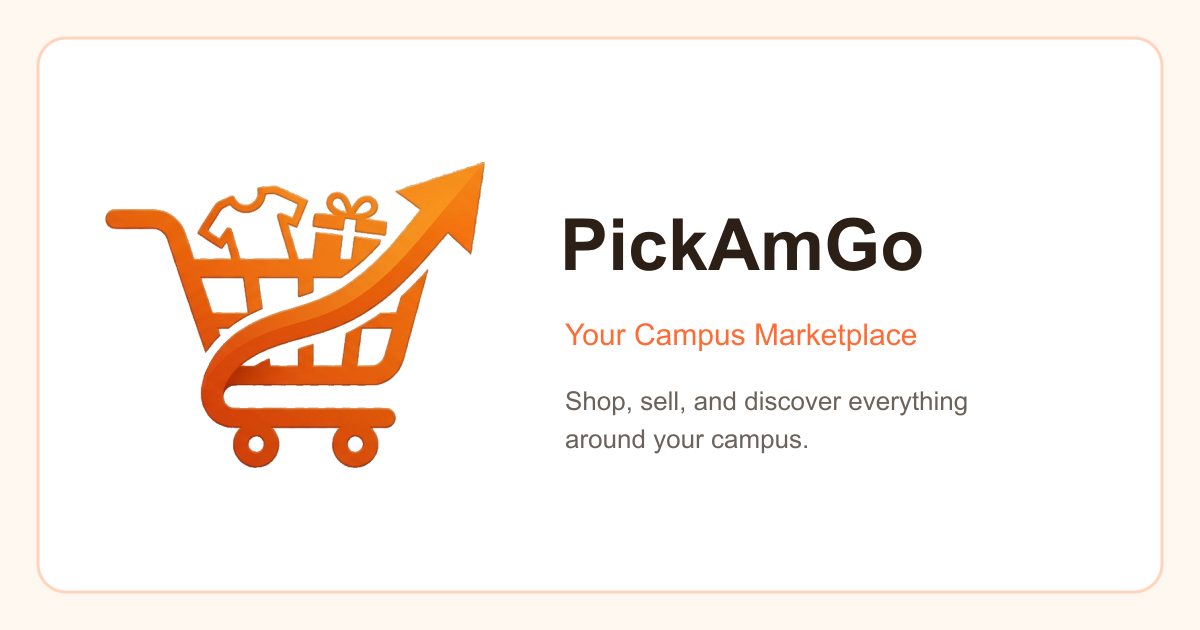
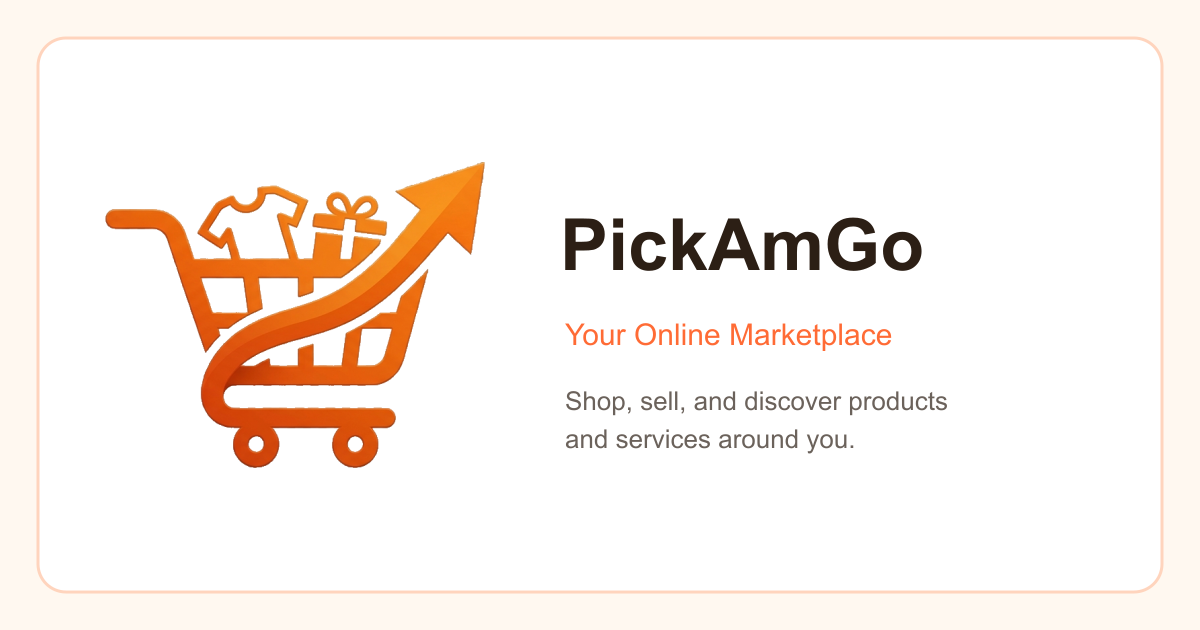
feat: position PickAmGo as a general marketplace

Changed region(s): [[0.5242, 0.5127, 0.7708, 0.573], [0.4933, 0.6635, 0.7092, 0.7238], [0.7092, 0.6032, 0.8017, 0.6635]]

diff --git a/src/lib/shop-themes.ts b/src/lib/shop-themes.ts
@@ -1,5 +1,5 @@
-export type ShopTheme = 'CLEAN' | 'MIDNIGHT' | 'SOFT' | 'LUXURY' | 'FRESH' | 'CAMPUS' | 'STREET' | 'BEAUTY'
-export type ShopLayout = 'CLASSIC' | 'GRID' | 'FEATURED' | 'BEAUTY' | 'CAMPUS'
+export type ShopTheme = 'CLEAN' | 'MIDNIGHT' | 'SOFT' | 'LUXURY' | 'FRESH' | 'QUICK_PICKS' | 'STREET' | 'BEAUTY'
+export type ShopLayout = 'CLASSIC' | 'GRID' | 'FEATURED' | 'BEAUTY' | 'QUICK_PICKS'
 
 export interface ShopCustomization {
   theme: ShopTheme
@@ -25,7 +25,7 @@ export const themePresets: Array<{ id: ShopTheme; name: string; description: str
   { id: 'SOFT', name: 'Soft', description: 'Calm neutrals for an inviting storefront', colors: ['#B76E79', '#FAF5F2', '#47343A'] },
   { id: 'LUXURY', name: 'Luxury', description: 'Editorial spacing and premium contrast', colors: ['#B08D57', '#171614', '#F4E8D0'] },
   { id: 'FRESH', name: 'Fresh', description: 'Energetic color for everyday finds', colors: ['#168AAD', '#EAF7F5', '#12343B'] },
-  { id: 'CAMPUS', name: 'Campus', description: 'Playful, polished and quick to scan', colors: ['#5B5BD6', '#F4F2FF', '#202047'] },
+  { id: 'QUICK_PICKS', name: 'Quick Picks', description: 'Playful, polished and quick to scan', colors: ['#5B5BD6', '#F4F2FF', '#202047'] },
   { id: 'STREET', name: 'Street', description: 'Bold blocks and high-impact product cards', colors: ['#E63946', '#171717', '#F1FAEE'] },
   { id: 'BEAUTY', name: 'Beauty', description: 'Elegant presentation for products and services', colors: ['#C06C84', '#FFF8F5', '#4A2633'] },
 ]
@@ -42,7 +42,7 @@ export function themeClass(theme: ShopTheme) {
     SOFT: 'theme-SOFT',
     LUXURY: 'theme-LUXURY',
     FRESH: 'theme-FRESH',
-    CAMPUS: 'theme-CAMPUS',
+    QUICK_PICKS: 'theme-QUICK_PICKS',
     STREET: 'theme-STREET',
     BEAUTY: 'theme-BEAUTY',
   }[theme]

diff --git a/src/app/layout.tsx b/src/app/layout.tsx
@@ -20,10 +20,10 @@ const spaceGrotesk = Space_Grotesk({
 export const metadata: Metadata = {
   metadataBase: new URL(`https://${process.env.NEXT_PUBLIC_MARKETPLACE_DOMAIN || 'pickamgo.com'}`),
   title: {
-    default: 'PickAmGo — Your Campus Marketplace',
+    default: 'PickAmGo — Your Online Marketplace',
     template: '%s | PickAmGo',
   },
-  description: 'Shop, sell, and discover everything around your campus with PickAmGo.',
+  description: 'Shop, sell, and discover products and services from businesses and sellers around you.',
   applicationName: 'PickAmGo',
   manifest: '/manifest.json',
   alternates: {
@@ -40,15 +40,15 @@ export const metadata: Metadata = {
   openGraph: {
     type: 'website',
     siteName: 'PickAmGo',
-    title: 'PickAmGo — Your Campus Marketplace',
-    description: 'Shop, sell, and discover everything around your campus with PickAmGo.',
+    title: 'PickAmGo — Your Online Marketplace',
+    description: 'Shop, sell, and discover products and services from businesses and sellers around you.',
     url: '/',
-    images: [{ url: '/og-image.png', width: 1200, height: 630, alt: 'PickAmGo - Your Campus Marketplace' }],
+    images: [{ url: '/og-image.png', width: 1200, height: 630, alt: 'PickAmGo - Your Online Marketplace' }],
   },
   twitter: {
     card: 'summary_large_image',
-    title: 'PickAmGo — Your Campus Marketplace',
-    description: 'Shop, sell, and discover everything around your campus with PickAmGo.',
+    title: 'PickAmGo — Your Online Marketplace',
+    description: 'Shop, sell, and discover products and services from businesses and sellers around you.',
     images: ['/og-image.png'],
   },
 }

diff --git a/src/data/mock-data.ts b/src/data/mock-data.ts
@@ -5,7 +5,7 @@ export const categories: Category[] = [
   { id: 'food', name: 'Food', icon: 'Utensils', color: 'bg-orange-100 text-orange-800', count: 189 },
   { id: 'fashion', name: 'Fashion', icon: 'Shirt', color: 'bg-purple-100 text-purple-800', count: 312 },
   { id: 'electronics', name: 'Phones & Tech', icon: 'Smartphone', color: 'bg-blue-100 text-blue-800', count: 156 },
-  { id: 'campus', name: 'Campus', icon: 'GraduationCap', color: 'bg-green-100 text-green-800', count: 98 },
+  { id: 'groceries', name: 'Groceries', icon: 'ShoppingBasket', color: 'bg-green-100 text-green-800', count: 98 },
   { id: 'home', name: 'Home', icon: 'Home', color: 'bg-yellow-100 text-yellow-800', count: 134 },
   { id: 'services', name: 'Services', icon: 'Sparkles', color: 'bg-teal-100 text-teal-800', count: 87 },
   { id: 'more', name: 'More', icon: 'PackageOpen', color: 'bg-gray-100 text-gray-800', count: 203 },
@@ -294,11 +294,11 @@ export const beautyServices: BeautyService[] = [
 export const shops: Shop[] = [
   {
     id: 'shop1',
-    name: 'Campus Glow',
-    slug: 'campus-glow',
+    name: 'Glow Beauty',
+    slug: 'glow-beauty',
     logo: 'https://images.unsplash.com/photo-1522337360788-8b13dee7a37e?w=200&h=200&fit=crop',
     banner: 'https://images.unsplash.com/photo-1522337360788-8b13dee7a37e?w=800&h=400&fit=crop',
-    description: 'Beauty, nails and skincare for your next glow-up. Serving the Legon campus community since 2022.',
+    description: 'Beauty, nails and skincare for your next glow-up. Serving customers around Accra since 2022.',
     category: ['beauty', 'skincare', 'nails'],
     owner: sellers[0],
     location: 'Legon, Accra',

diff --git a/src/app/shop/[slug]/page.tsx b/src/app/shop/[slug]/page.tsx
@@ -11,7 +11,7 @@ import { SectionHeader } from '../../../components/ui/SectionHeader'
 import { api } from '../../../lib/api'
 import { Shop, Product, BeautyService } from '../../../types'
 import { mapApiShopToFrontend, mapApiProductToFrontend, mapApiServiceToFrontend } from '../../../lib/api-mappers'
-import { defaultShopCustomization, readableTextColor, themeClass } from '../../../lib/shop-themes'
+import { defaultShopCustomization, readableTextColor, themeClass, ShopCustomization } from '../../../lib/shop-themes'
 import MapboxMap from '../../../components/map/MapboxMap'
 import { useTheme } from '../../../components/theme/ThemeProvider'
 
@@ -110,8 +110,15 @@ export default function ShopPage() {
     )
   }
 
-  const customization = { ...defaultShopCustomization, ...(shop.customization || {}) }
-  const visibleProducts = customization.layout === 'CAMPUS'
+  const legacyQuickPicksId = 'CAMP' + 'US'
+  const storedCustomization = (shop.customization || {}) as Partial<ShopCustomization>
+  const customization = {
+    ...defaultShopCustomization,
+    ...storedCustomization,
+    theme: storedCustomization.theme === legacyQuickPicksId ? 'QUICK_PICKS' : storedCustomization.theme || defaultShopCustomization.theme,
+    layout: storedCustomization.layout === legacyQuickPicksId ? 'QUICK_PICKS' : storedCustomization.layout || defaultShopCustomization.layout,
+  }
+  const visibleProducts = customization.layout === 'QUICK_PICKS'
     ? shop.products.filter(product => product.isTrending || product.isNew || product.isDeal)
     : shop.products
   const featuredProduct = shop.products.find(product => product.id === customization.featuredProductId)

diff --git a/api/prisma/seed.ts b/api/prisma/seed.ts
@@ -116,17 +116,16 @@ async function main() {
   })
 
   const shop = await prisma.shop.upsert({
-    where: { slug: 'campus-glow' },
+    where: { slug: 'glow-beauty' },
     update: {},
     create: {
-      name: 'Campus Glow',
-      slug: 'campus-glow',
+      name: 'Glow Beauty',
+      slug: 'glow-beauty',
       logo: 'https://images.unsplash.com/photo-1522337360788-8b13dee7a37e?w=200&h=200&fit=crop',
       banner: 'https://images.unsplash.com/photo-1522337360788-8b13dee7a37e?w=800&h=400&fit=crop',
-      description: 'Beauty, nails and skincare for your next glow-up. Serving the Legon campus community since 2022.',
+      description: 'Beauty, nails and skincare for your next glow-up. Serving customers around Accra since 2022.',
       location: 'Legon, Accra',
       area: 'Legon',
-      campus: 'University of Ghana',
       openingHours: '9:00 AM - 8:00 PM',
       status: 'ACTIVE',
       verificationStatus: 'APPROVED',
@@ -173,7 +172,6 @@ async function main() {
       sellerId: demoUser.id,
       location: 'Legon, Accra',
       area: 'Legon',
-      campus: 'University of Ghana',
       isTrending: true,
       isNew: true,
       status: 'ACTIVE',
@@ -227,7 +225,6 @@ async function main() {
       providerId: demoUser.id,
       location: 'Legon, Accra',
       area: 'Legon',
-      campus: 'University of Ghana',
       isVerified: true,
       isTrending: true,
       status: 'ACTIVE',

diff --git a/src/app/seller/products/new/page.tsx b/src/app/seller/products/new/page.tsx
@@ -35,7 +35,6 @@ export default function CreateProductPage() {
     shopCategoryId: '',
     location: '',
     area: '',
-    campus: '',
     condition: 'new',
     images: '',
   })
@@ -52,7 +51,7 @@ export default function CreateProductPage() {
       if (shopRes.success && shopRes.data?.shop) {
         const shop = shopRes.data.shop
         setShopId(shop.id)
-        setForm(prev => ({ ...prev, location: shop.location || '', area: shop.area || '', campus: shop.campus || '' }))
+        setForm(prev => ({ ...prev, location: shop.location || '', area: shop.area || '' }))
         const [categoriesRes, shopCategoriesRes] = await Promise.all([
           api.get<any>('/categories'),
           api.get<any>(`/shop-categories/shops/${shop.id}`),
@@ -272,12 +271,6 @@ export default function CreateProductPage() {
               placeholder="e.g., Legon"
               value={form.area}
               onChange={(e) => updateField('area', e.target.value)}
-            />
-            <Input
-              label="Campus (optional)"
-              placeholder="e.g., UG"
-              value={form.campus}
-              onChange={(e) => updateField('campus', e.target.value)}
             />
           </div>
 

diff --git a/src/app/seller/shop/settings/page.tsx b/src/app/seller/shop/settings/page.tsx
@@ -25,7 +25,6 @@ export default function ShopSettingsPage() {
     banner: '',
     location: '',
     area: '',
-    campus: '',
     latitude: null as number | null,
     longitude: null as number | null,
     openingHours: '9:00 AM - 6:00 PM',
@@ -49,7 +48,6 @@ export default function ShopSettingsPage() {
           banner: shopData.banner || '',
           location: shopData.location || '',
           area: shopData.area || '',
-          campus: shopData.campus || '',
           latitude: shopData.latitude ?? null,
           longitude: shopData.longitude ?? null,
           openingHours: shopData.openingHours || '9:00 AM - 6:00 PM',
@@ -288,12 +286,6 @@ export default function ShopSettingsPage() {
                     placeholder="e.g., Legon"
                     value={form.area}
                     onChange={(e) => updateField('area', e.target.value)}
-                  />
-                  <Input
-                    label="Campus"
-                    placeholder="e.g., UG"
-                    value={form.campus}
-                    onChange={(e) => updateField('campus', e.target.value)}
                   />
                 </div>
               </div>

diff --git a/src/app/seller/shop/create/page.tsx b/src/app/seller/shop/create/page.tsx
@@ -23,7 +23,6 @@ export default function CreateShopPage() {
     banner: '',
     location: '',
     area: '',
-    campus: '',
     openingHours: '9:00 AM - 6:00 PM',
     category: '',
     latitude: null as number | null,
@@ -108,7 +107,7 @@ export default function CreateShopPage() {
         <form onSubmit={handleSubmit} className="space-y-4">
           <Input
             label="Shop Name"
-            placeholder="e.g., Campus Glow Beauty"
+            placeholder="e.g., Glow Beauty"
             value={form.name}
             onChange={(e) => updateField('name', e.target.value)}
             required
@@ -185,12 +184,6 @@ export default function CreateShopPage() {
               placeholder="e.g., Legon"
               value={form.area}
               onChange={(e) => updateField('area', e.target.value)}
-            />
-            <Input
-              label="Campus (optional)"
-              placeholder="e.g., UG"
-              value={form.campus}
-              onChange={(e) => updateField('campus', e.target.value)}
             />
           </div>
 

diff --git a/src/app/globals.css b/src/app/globals.css
@@ -178,7 +178,7 @@
 .theme-SOFT { background-color: #FAF5F2; }
 .theme-LUXURY { background-color: #171614; }
 .theme-FRESH { background-color: #EAF7F5; }
-.theme-CAMPUS { background-color: #F4F2FF; }
+.theme-QUICK_PICKS { background-color: #F4F2FF; }
 .theme-STREET { background-color: #171717; }
 .theme-BEAUTY { background-color: #FFF8F5; }
 
@@ -187,7 +187,7 @@
 .dark .theme-SOFT { background-color: #1A1614; }
 .dark .theme-LUXURY { background-color: #0D0C0B; }
 .dark .theme-FRESH { background-color: #0F1D20; }
-.dark .theme-CAMPUS { background-color: #181825; }
+.dark .theme-QUICK_PICKS { background-color: #181825; }
 .dark .theme-STREET { background-color: #0D0D0D; }
 .dark .theme-BEAUTY { background-color: #1A1215; }
 
@@ -203,7 +203,7 @@
 .dark .theme-CLEAN,
 .dark .theme-SOFT,
 .dark .theme-FRESH,
-.dark .theme-CAMPUS,
+.dark .theme-QUICK_PICKS,
 .dark .theme-BEAUTY {
   --shop-secondary: #17151A !important;
   --shop-accent: #2A252B !important;

diff --git a/src/app/seller/settings/page.tsx b/src/app/seller/settings/page.tsx
@@ -25,7 +25,6 @@ export default function SellerSettingsPage() {
     banner: '',
     location: '',
     area: '',
-    campus: '',
     openingHours: '',
     phone: '',
     email: '',
@@ -53,7 +52,6 @@ export default function SellerSettingsPage() {
           banner: s.banner || '',
           location: s.location || '',
           area: s.area || '',
-          campus: s.campus || '',
           openingHours: s.openingHours || '',
           phone: s.phone || '',
           email: s.email || '',
@@ -192,11 +190,6 @@ export default function SellerSettingsPage() {
                 label="Area"
                 value={form.area}
                 onChange={(e) => updateField('area', e.target.value)}
-              />
-              <Input
-                label="Campus (optional)"
-                value={form.campus}
-                onChange={(e) => updateField('campus', e.target.value)}
               />
             </div>
           </Card>

diff --git a/api/src/routes/shops.ts b/api/src/routes/shops.ts
@@ -8,8 +8,9 @@ import { publicProductVisibility, publicServiceVisibility } from '../utils/visib
 
 const router = Router()
 
-const themes = ['CLEAN', 'MIDNIGHT', 'SOFT', 'LUXURY', 'FRESH', 'CAMPUS', 'STREET', 'BEAUTY'] as const
-const layouts = ['CLASSIC', 'GRID', 'FEATURED', 'BEAUTY', 'CAMPUS'] as const
+const legacyQuickPicksId = 'CAMP' + 'US'
+const themes = ['CLEAN', 'MIDNIGHT', 'SOFT', 'LUXURY', 'FRESH', 'QUICK_PICKS', legacyQuickPicksId, 'STREET', 'BEAUTY'] as const
+const layouts = ['CLASSIC', 'GRID', 'FEATURED', 'BEAUTY', 'QUICK_PICKS', legacyQuickPicksId] as const
 const reservedShopSlugs = new Set(['www', 'api', 'admin', 'app', 'mail', 'support', 'help', 'dashboard', 'checkout', 'login', 'signup'])
 const colorSchema = z.string().regex(/^#[0-9a-fA-F]{6}$/, 'Colors must be six-digit hex values')
 const customizationFields = {

diff --git a/src/app/seller/shop/customize/page.tsx b/src/app/seller/shop/customize/page.tsx
@@ -14,7 +14,7 @@ const layouts: Array<{ id: ShopLayout; name: string; description: string }> = [
   { id: 'GRID', name: 'Grid', description: 'Shop header followed by a large product grid' },
   { id: 'FEATURED', name: 'Featured', description: 'Put one real product in the spotlight' },
   { id: 'BEAUTY', name: 'Beauty', description: 'Services, products and reviews together' },
-  { id: 'CAMPUS', name: 'Quick Picks', description: 'Quick categories, popular items and deals' },
+  { id: 'QUICK_PICKS', name: 'Quick Picks', description: 'Quick categories, popular items and deals' },
 ]
 
 export default function SellerCustomizeShopPage() {
